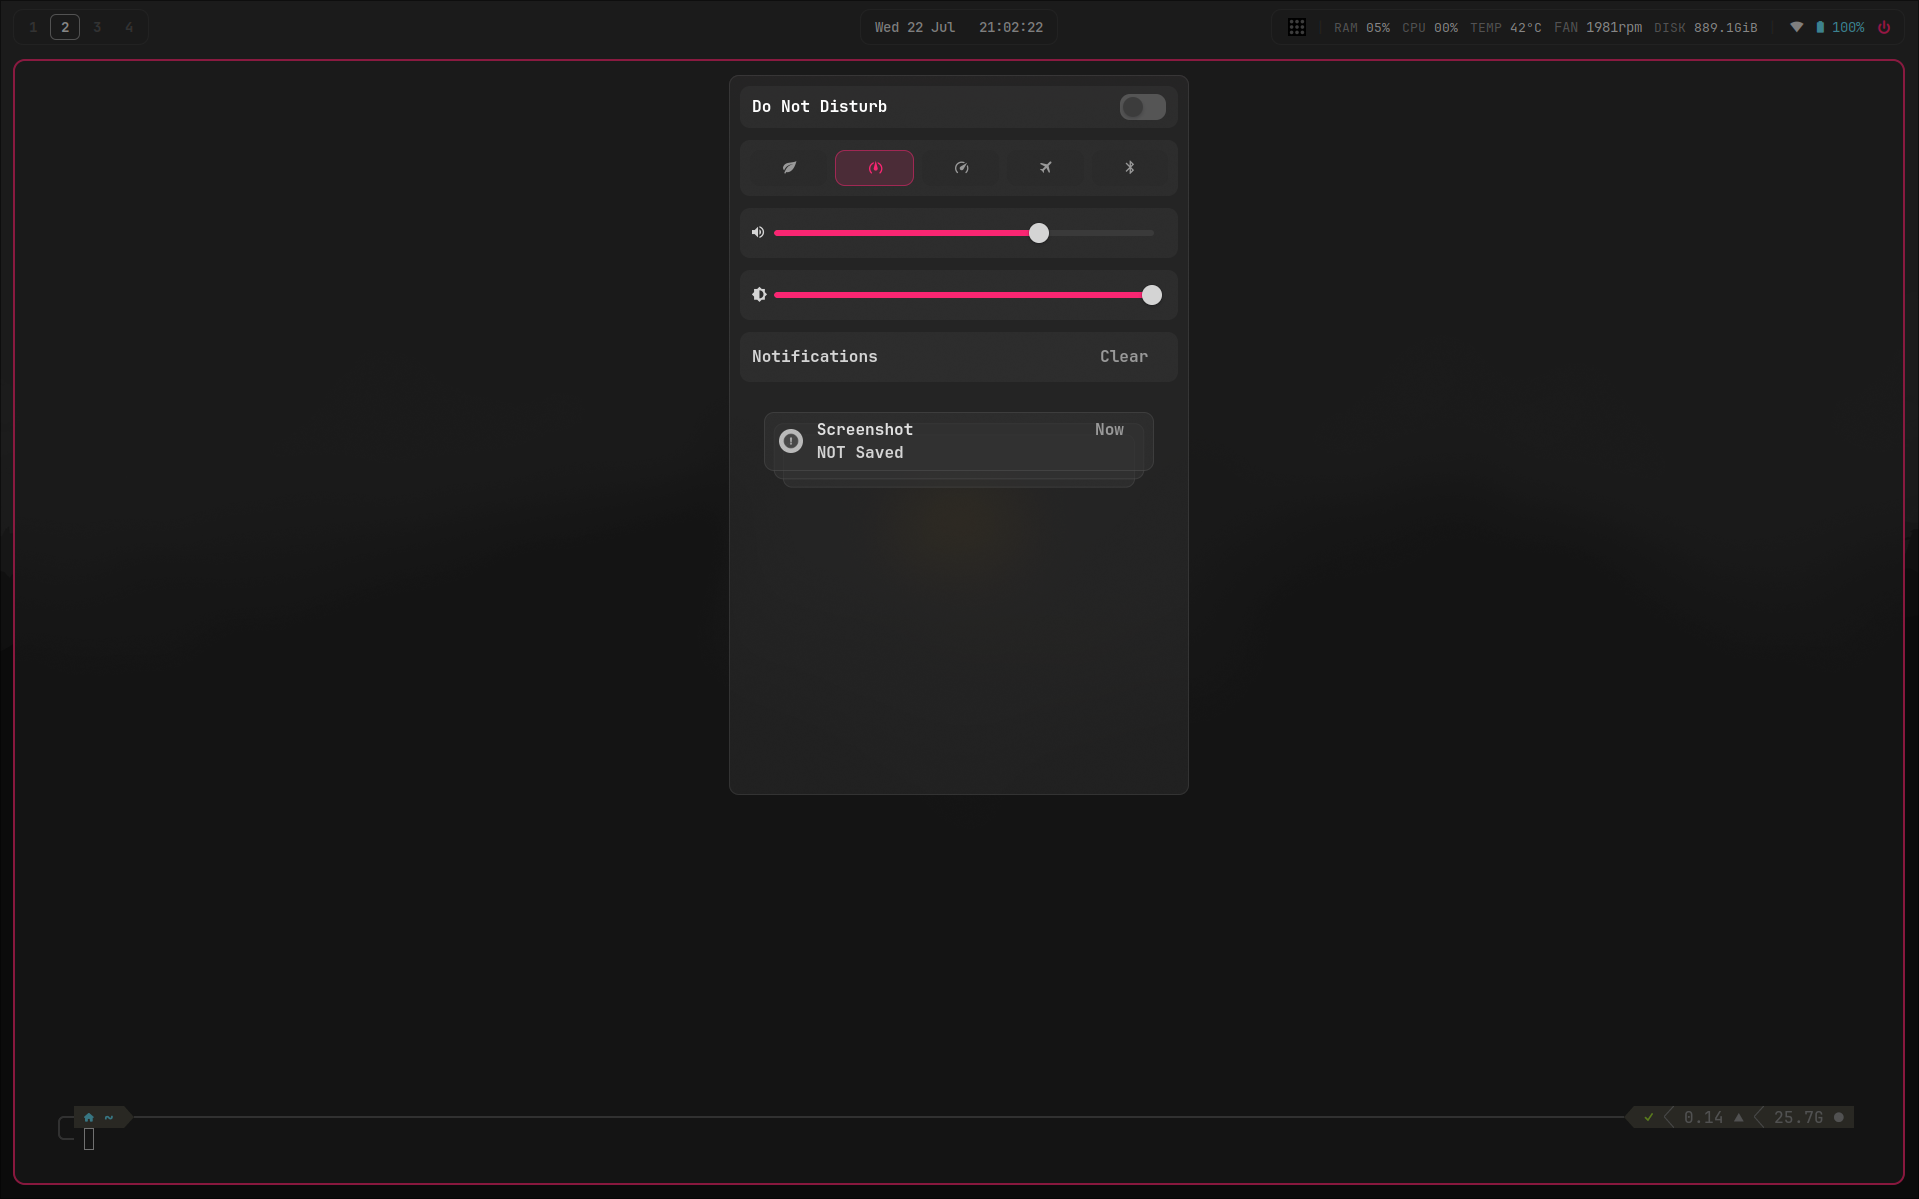
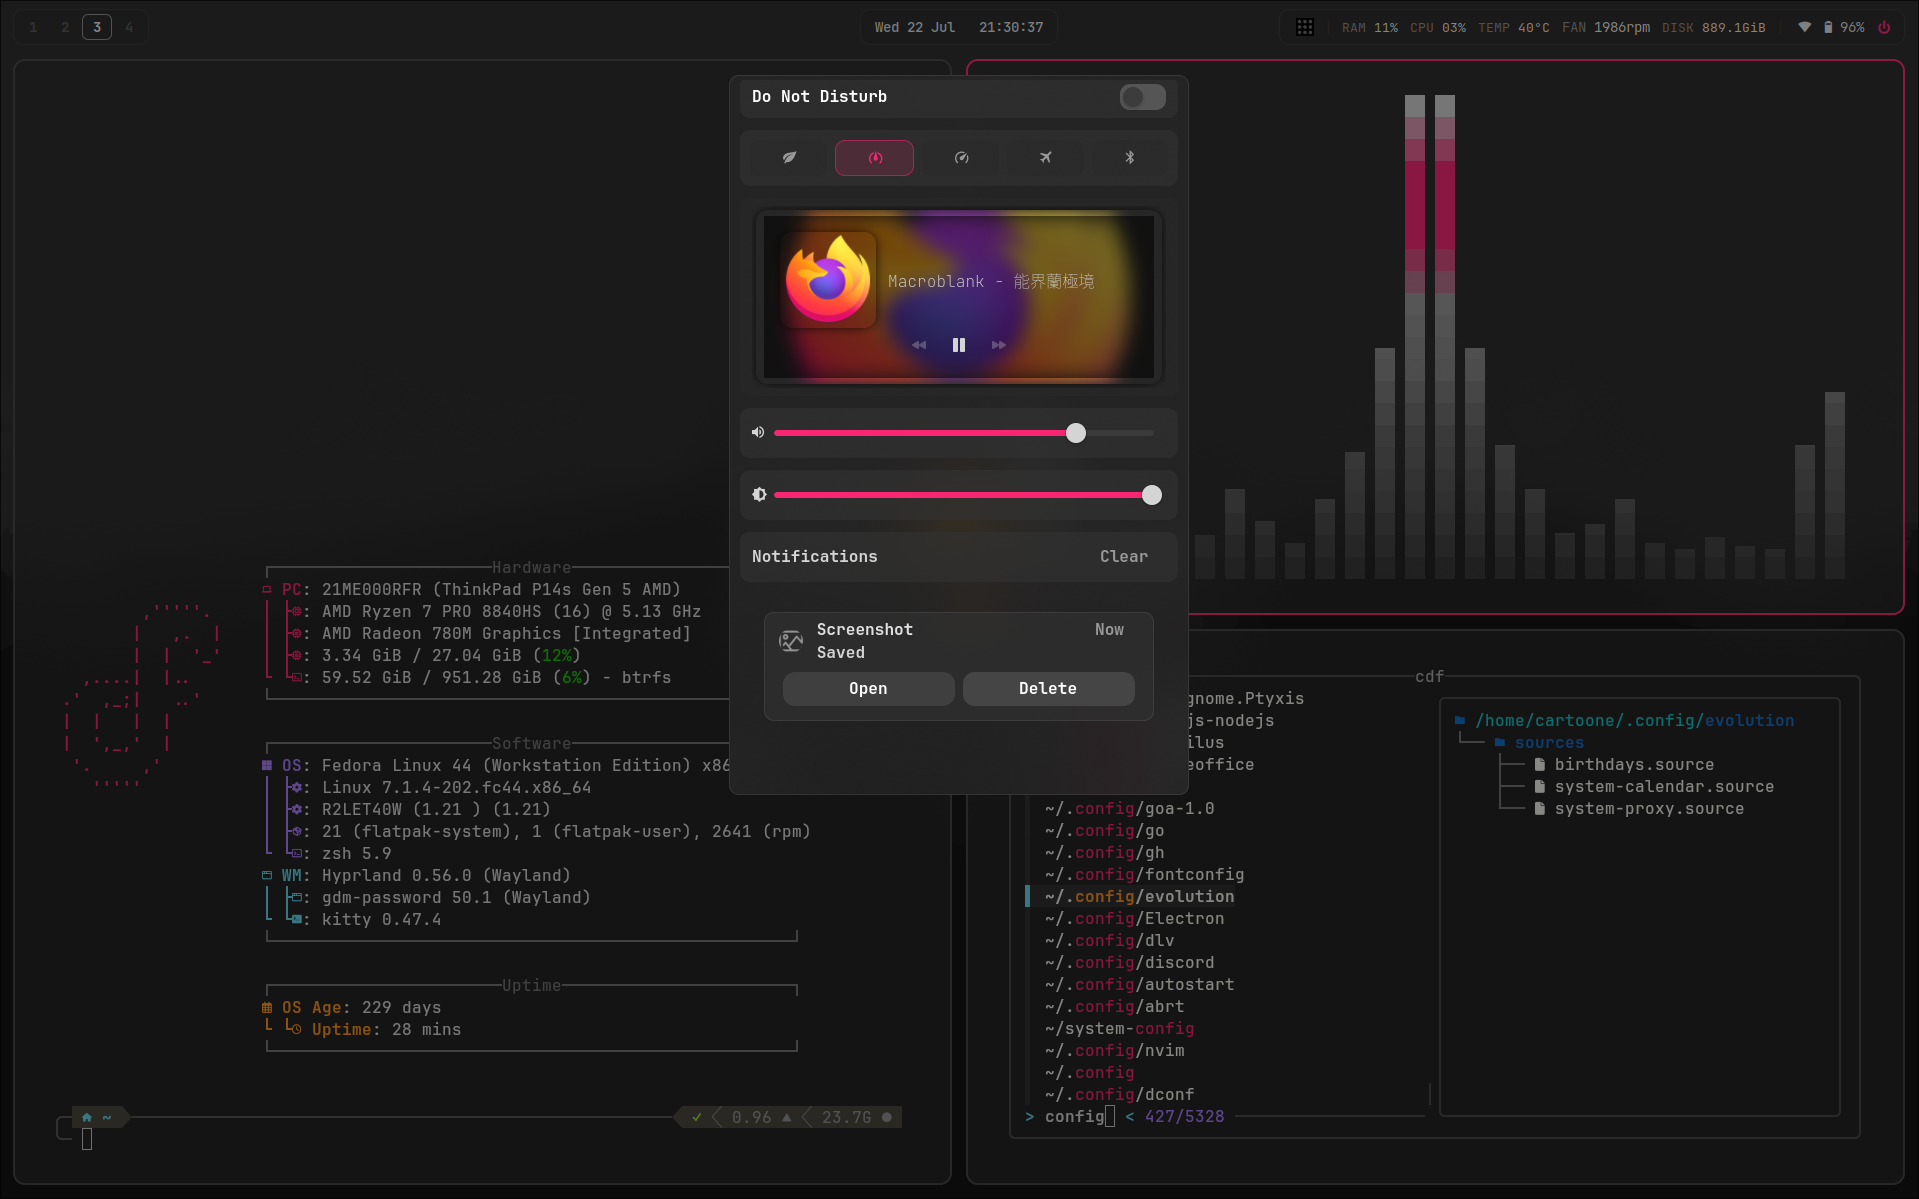
Screenshots: terminal, tridactyl, wifi panel; better swaync shot

diff --git a/README.md b/README.md
@@ -6,7 +6,8 @@ Monokai-themed Hyprland setup on Fedora 44 — daily driven on a ThinkPad P14s G
 
 | | |
 |---|---|
-| ![rofi](assets/rofi.png) | ![swaync](assets/swaync.png) |
+| ![terminal](assets/terminal.png) | ![rofi](assets/rofi.png) |
+| ![swaync](assets/swaync.png) | ![tridactyl](assets/tridactyl.png) |
 
 ![wlogout](assets/wlogout.png)
 
@@ -35,6 +36,8 @@ menu — it opens the **real GNOME Settings Wi-Fi panel** as a floating window
   password dialogs, captive-portal handling — for free
 - ESC closes it (a scoped keybind that only exists while the window is
   focused), and clicking the module again toggles it away
+
+![wifi panel](assets/wifi.png)
 
 **No GNOME? Workaround included:** `waybar/scripts/rofi-wifi.sh` is a
 self-contained nmcli + rofi wifi menu (scan, connect, forget, hidden SSID)